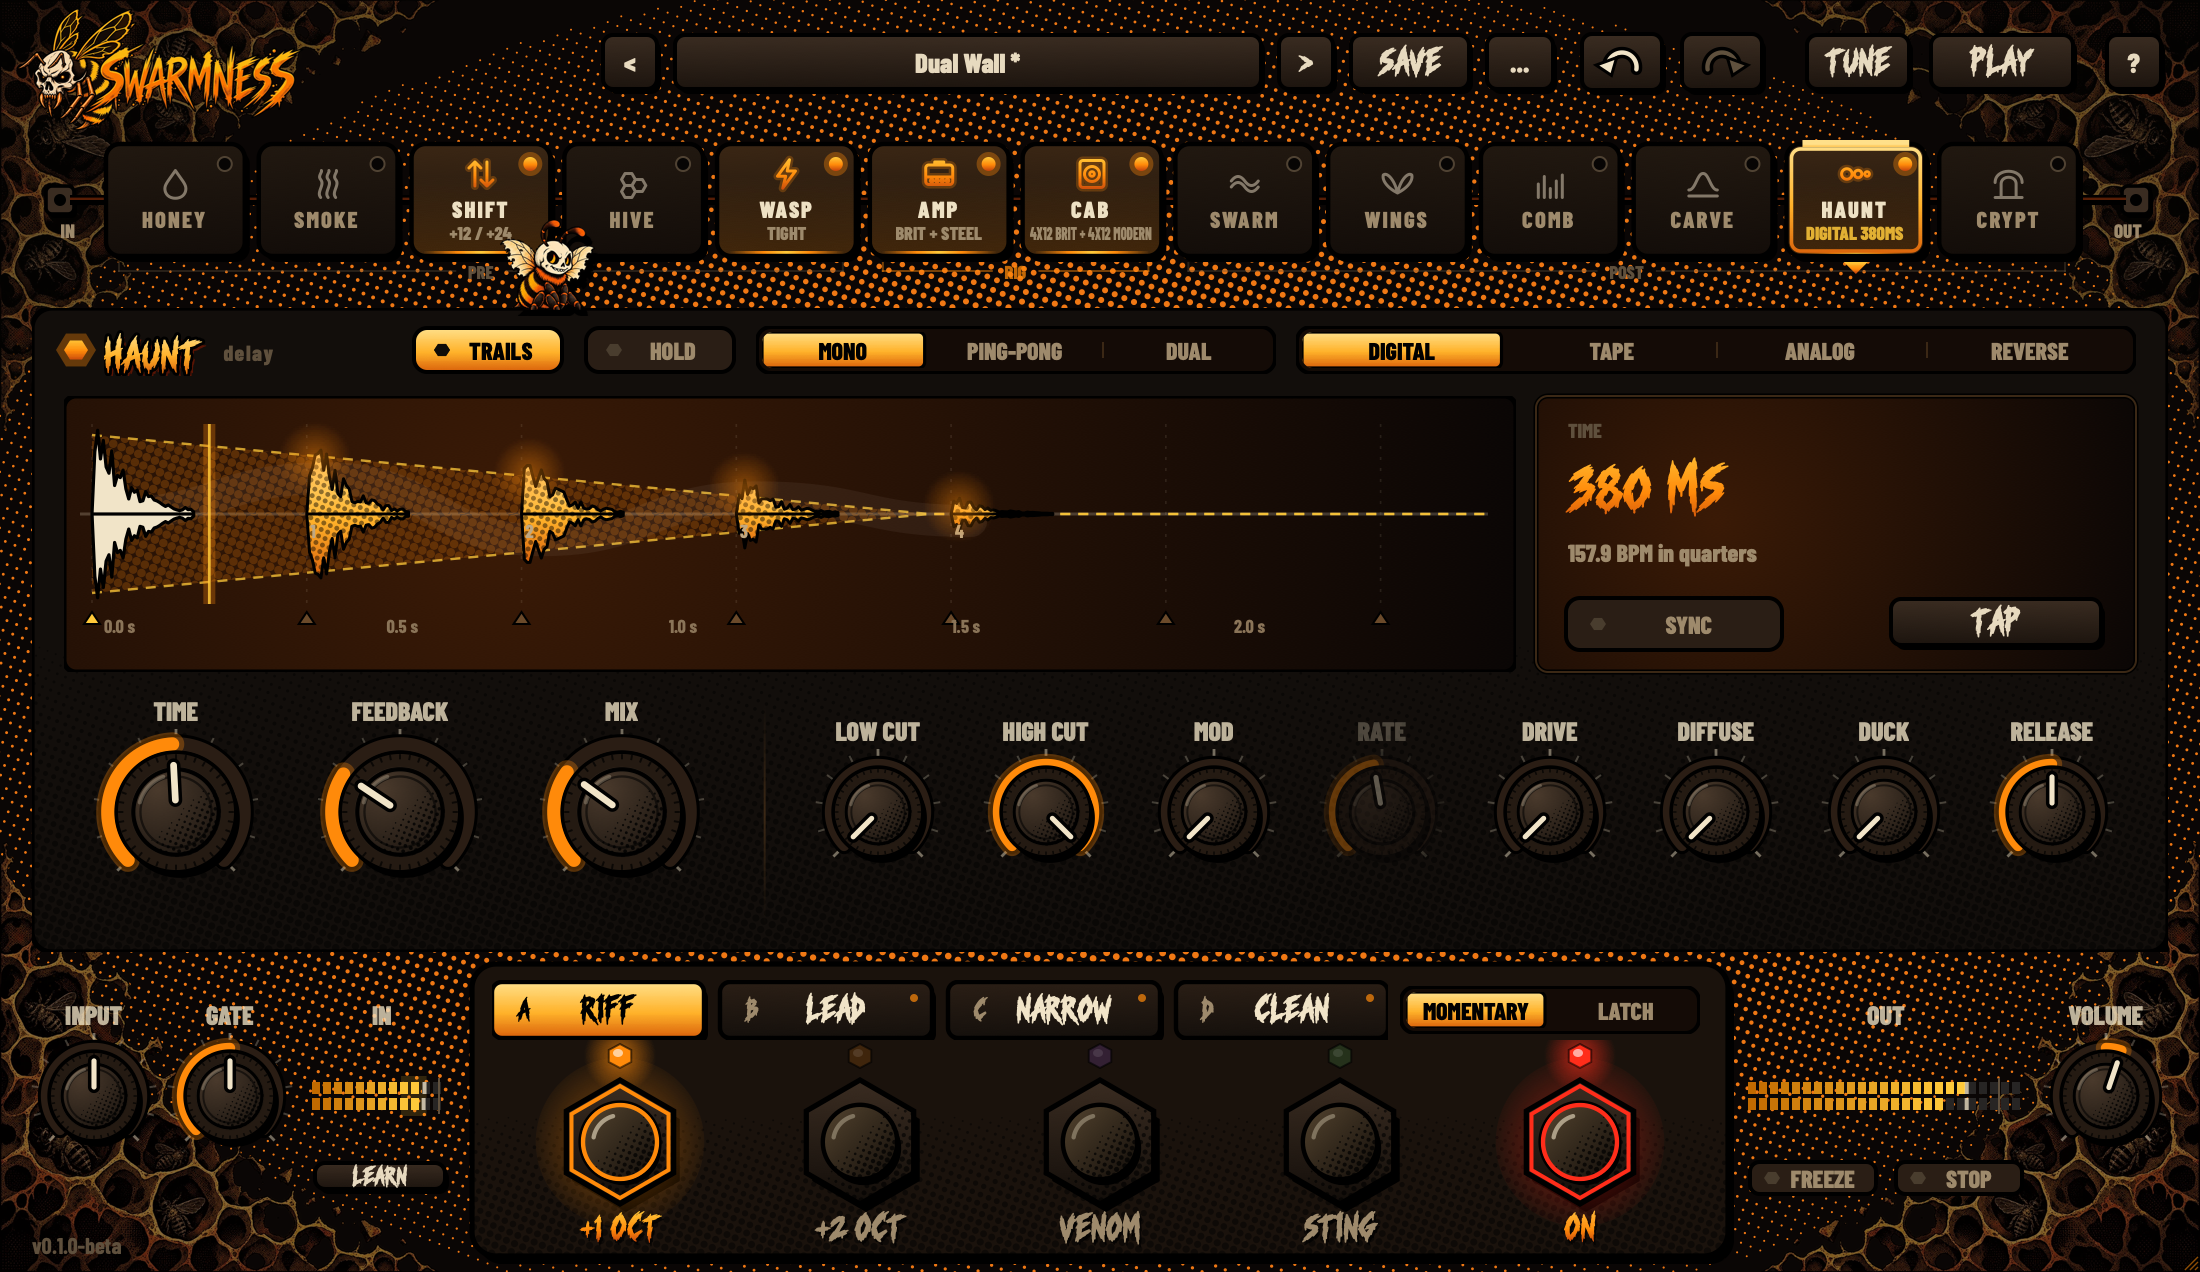
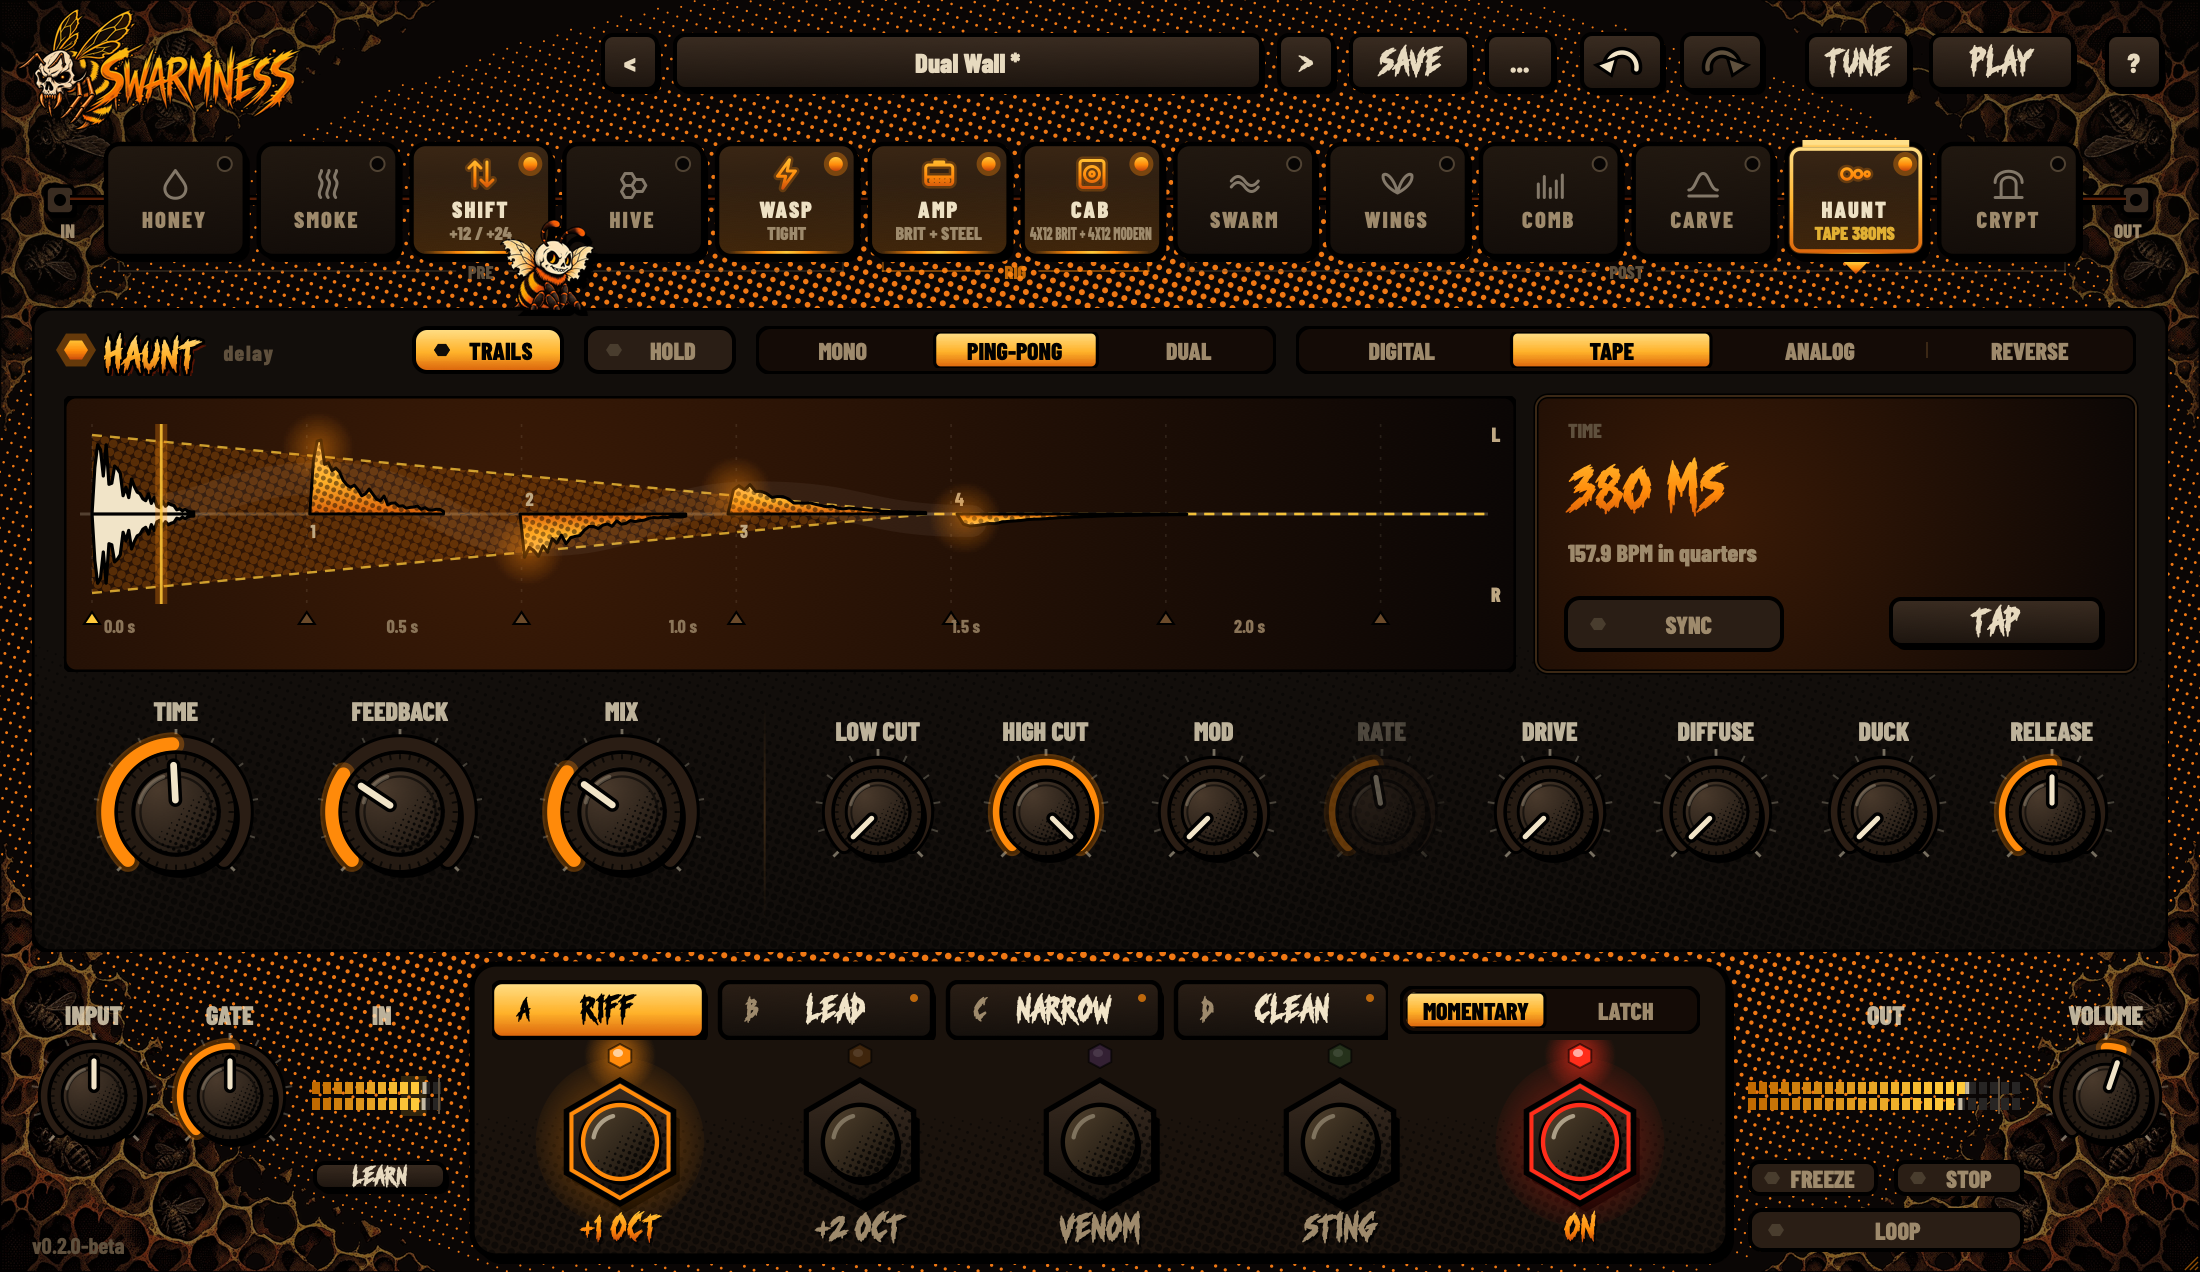
0.2.0-beta: the looper, HIVE's new side, fresh screenshots
- HIVE's row and caption: harmonies and pitch-shifting repeats - ladders, melodies of repeats in key, a metallic spiral.
- The looper in the list and in "first steps" (LOOP under the OUT meter).
- The screenshots are re-shot from 0.2.0-beta.

diff --git a/README.en.md b/README.en.md
@@ -14,7 +14,7 @@ VST3 · AU · Standalone - macOS (Apple Silicon and Intel), Windows, Linux. Free
 <summary>More screenshots</summary>
 
 ![HONEY - compressor](docs/screenshot-honey.png)
-![HIVE - octaves and harmonies](docs/screenshot-hive.png)
+![HIVE - harmonies and melodies of repeats](docs/screenshot-hive.png)
 ![SHIFT - pitch shifter](docs/screenshot-shift.png)
 ![HAUNT - delay](docs/screenshot-delay.png)
 ![CRYPT - reverb](docs/screenshot-crypt.png)
@@ -31,7 +31,7 @@ Thirteen blocks in one chain. Drag the tiles to change their order.
 | **HONEY** | compressor / sustainer |
 | **SMOKE** | fuzz |
 | **SHIFT** | pitch shifter on footswitches: octaves down and up, dives |
-| **HIVE** | octaves and harmonies over your signal, with regeneration |
+| **HIVE** | harmonies and pitch-shifting repeats: ladders, melodies of repeats in key, a metallic spiral |
 | **WASP** | overdrive / boost, four characters |
 | **AMP** | three amps (CLEAN, CRUNCH, LEAD) and your NAM captures; two rigs, A / B |
 | **CAB** | miked cabinets or your IRs |
@@ -41,7 +41,7 @@ Thirteen blocks in one chain. Drag the tiles to change their order.
 | **HAUNT** | delay: digital, tape, analog, reverse |
 | **CRYPT** | reverb: room, plate, hall, spring, shimmer, your own IR |
 
-Plus a tuner, four scenes per preset, four footswitches, MIDI learn and about a hundred presets.
+Plus a looper, a tuner, four scenes per preset, four footswitches, MIDI learn and about a hundred presets.
 
 ## Install
 
@@ -62,6 +62,7 @@ Then re-scan plug-ins in your DAW. Without a DAW, play through the **Swarmness**
 - **?** in the header turns on help: tap any control to see what it does.
 - **Undo.** The arrows in the header, or **Cmd/Ctrl+Z**.
 - **TUNE** opens the tuner.
+- **LOOP** (under the OUT meter) is a looper: tap = record, tap = the loop plays, tap = overdub; double tap = stop, hold = clear. It keeps playing whatever you switch.
 - **MIDI.** Right-click any control → **MIDI Learn**, then press a pedal or turn a controller.
 - **NAM and IRs.** Drop a `.nam` on the AMP page or a `.wav` on the CAB page.
 
